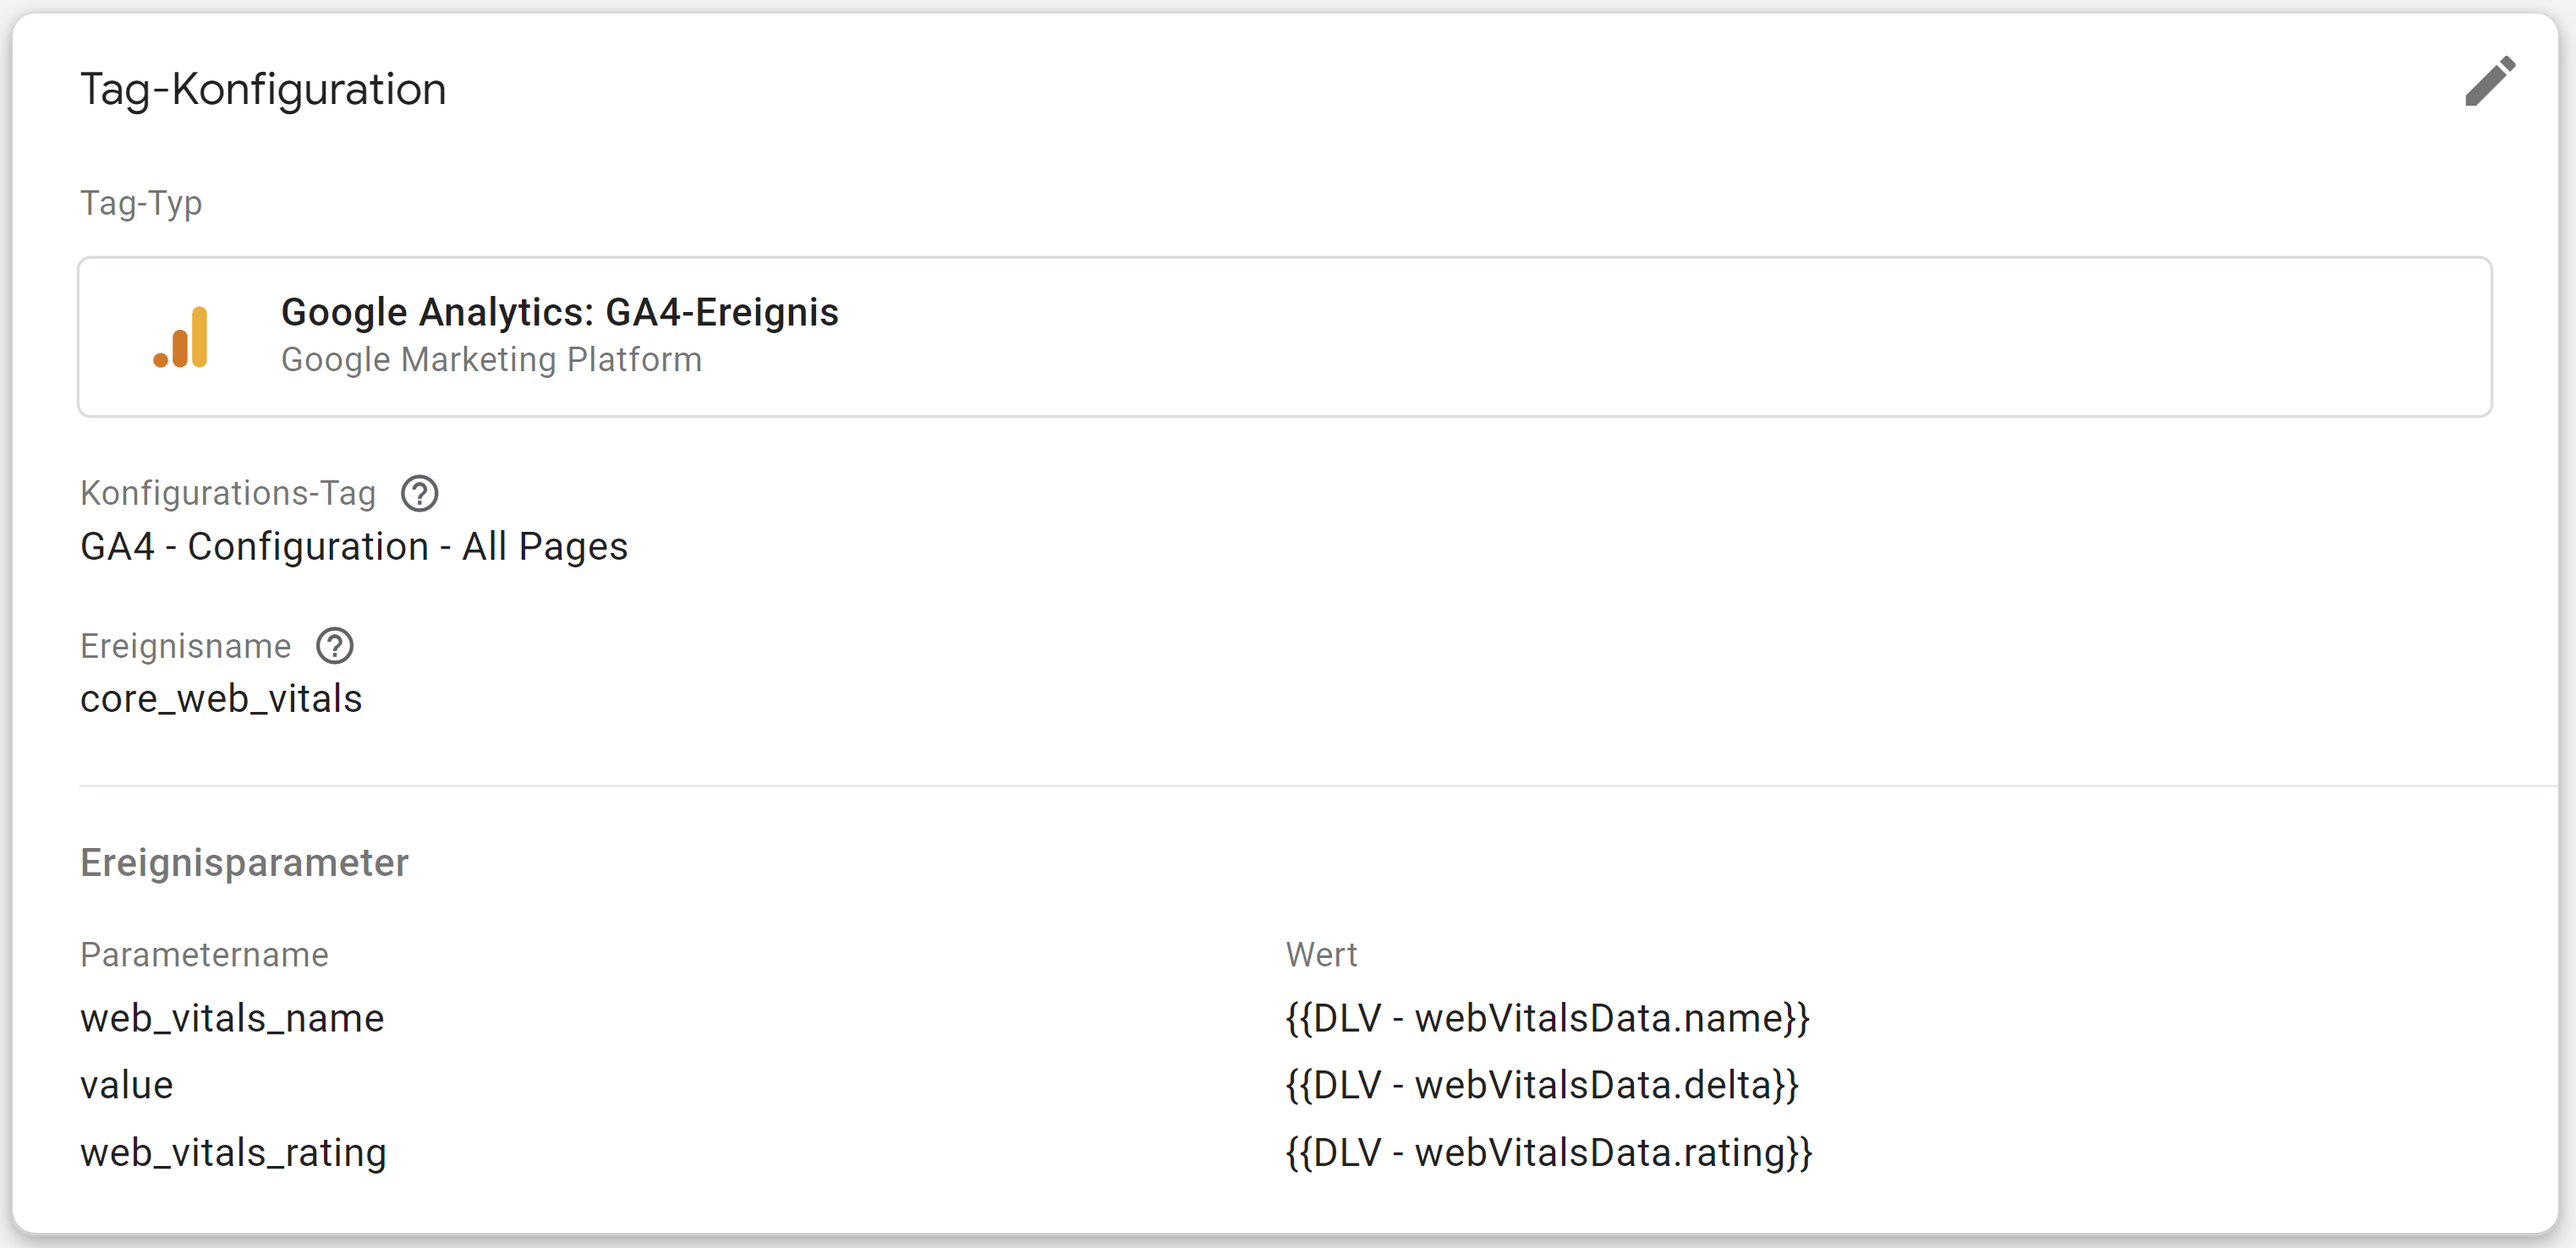
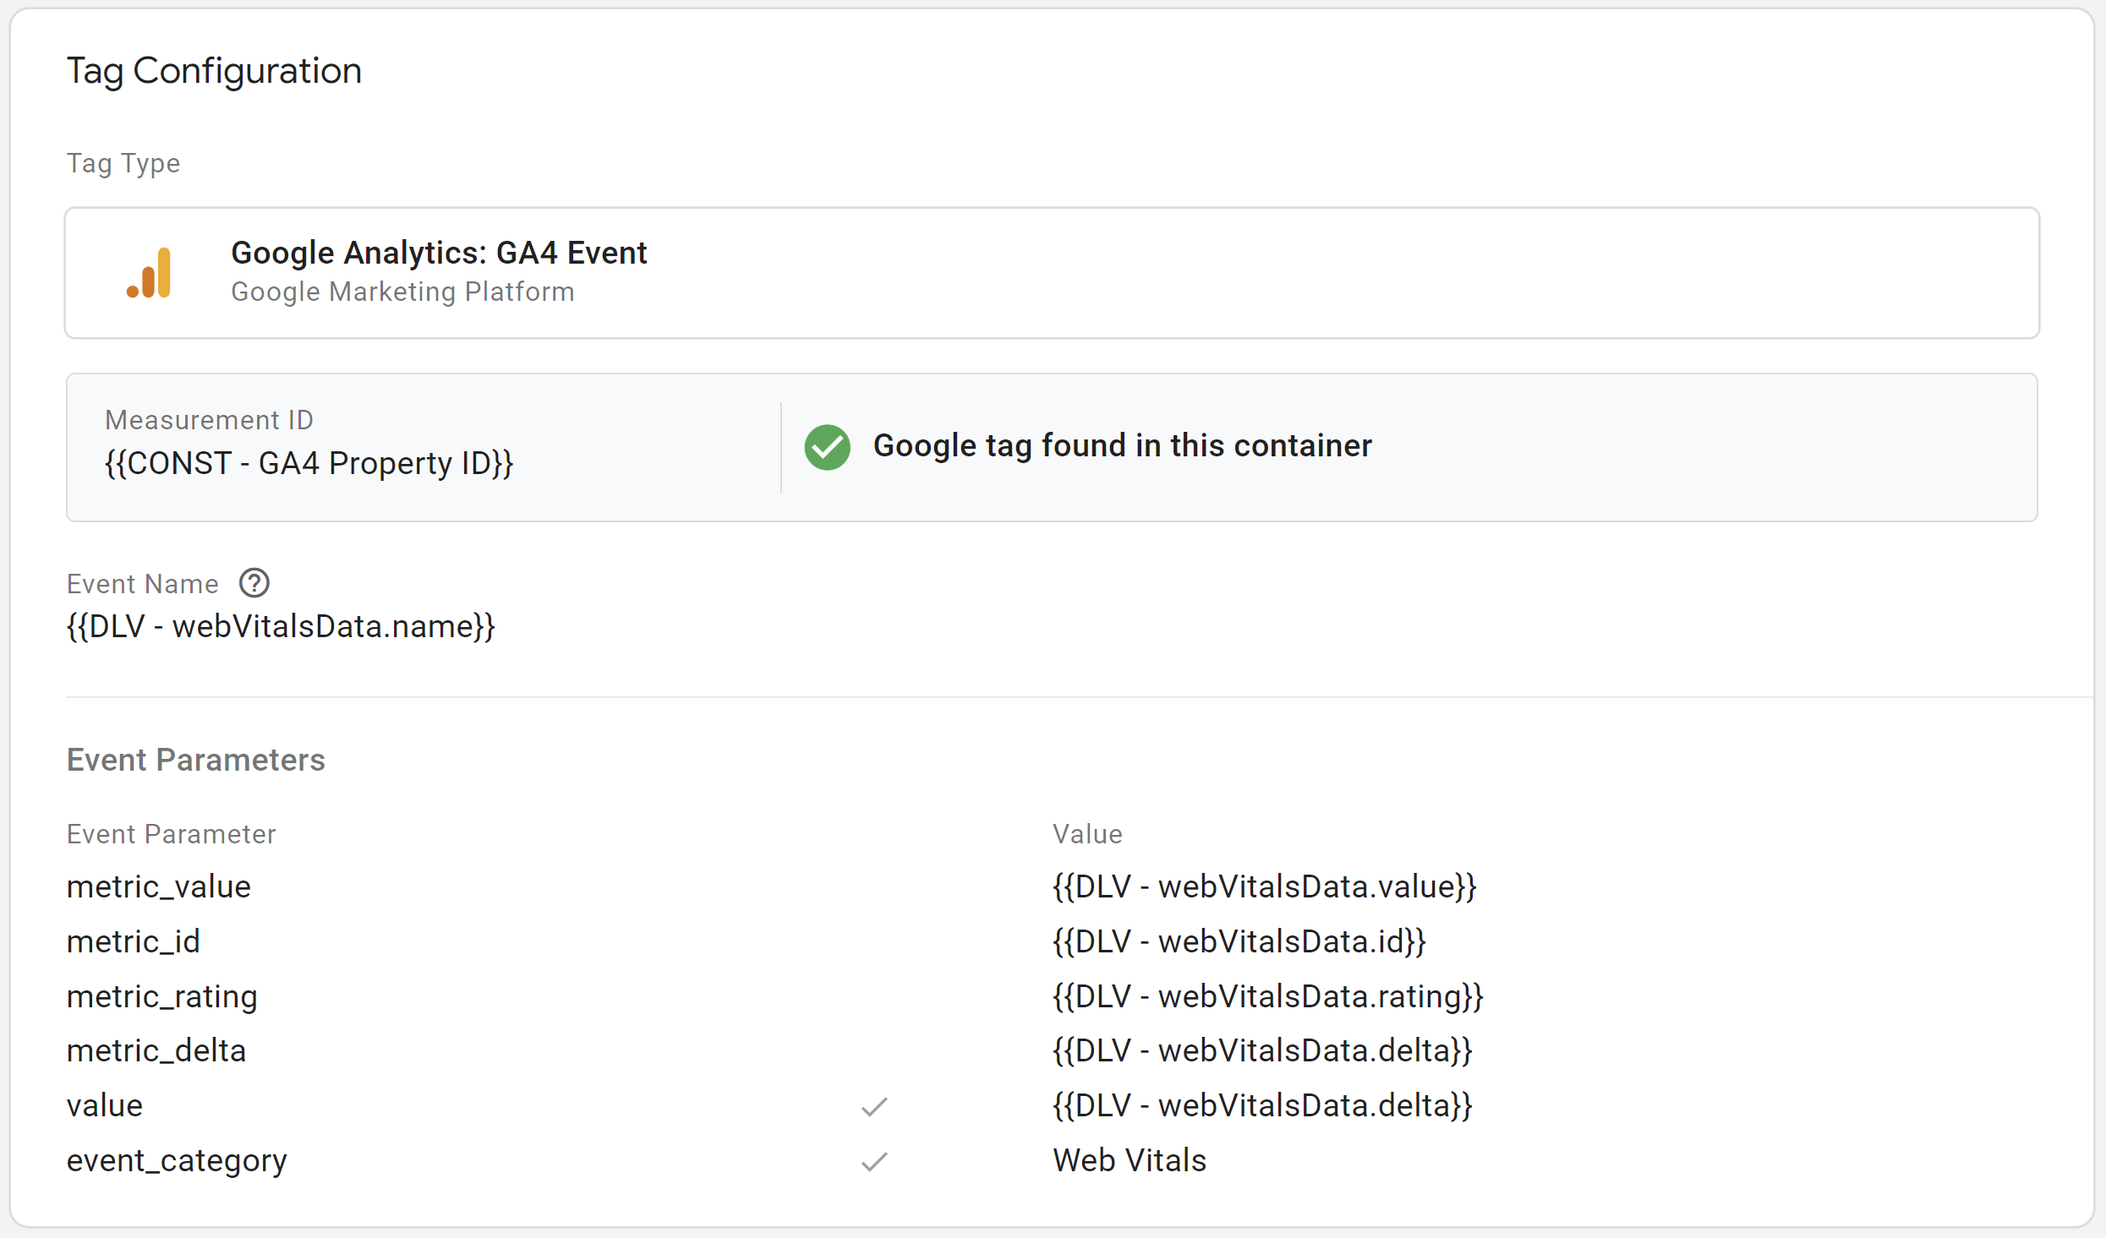
Update images and README.md

diff --git a/README.md b/README.md
@@ -55,7 +55,7 @@ For a **customized setup** you have different options to choose from:
     + [Interaction to next Paint (INP)](https://web.dev/inp/)
     + [First Contentful Paint (FCP)](https://web.dev/fcp/)
     + [Time to First Byte (TTFB)](https://web.dev/ttfb/)
-- **Event name:** Per default for every push of web vitals data into the [data layer](https://developers.google.com/tag-platform/tag-manager/datalayer) of Google Tag Manager an event property with the name "webVitals" will be added. If you want to rename that event name, you can configure it here.
+- **Event name:** Per default for every push of web vitals data into the [data layer](https://developers.google.com/tag-platform/tag-manager/datalayer) of Google Tag Manager an event property with the name "web_vitals" will be added. If you want to rename that event name, you can configure it here.
 
 After your customization add the "All Pages" trigger to the Tag.
 
@@ -109,7 +109,7 @@ To access web vitals data from the data layer and to send those data as event pa
 
 ### Create a GA4 Tag
 
-To send the data to GA4 you have to create a GA4 Event Tag. You can name the event as "web_vitals" or "core_web_vitals", set up event parameters and choose the created trigger to make the tag fire.
+To send the data to GA4 you have to create a GA4 Event Tag. Set the data layer variable of "webVitalsData.name" as an event name, set up event parameters and choose the created trigger to make the tag fire. You can also use a event parameter called "event_category" of "Web Vitals" to group the metrics.
 
 ![Web Vitals Tag](docs/img/web-vitals-gtm-11.PNG)
 
